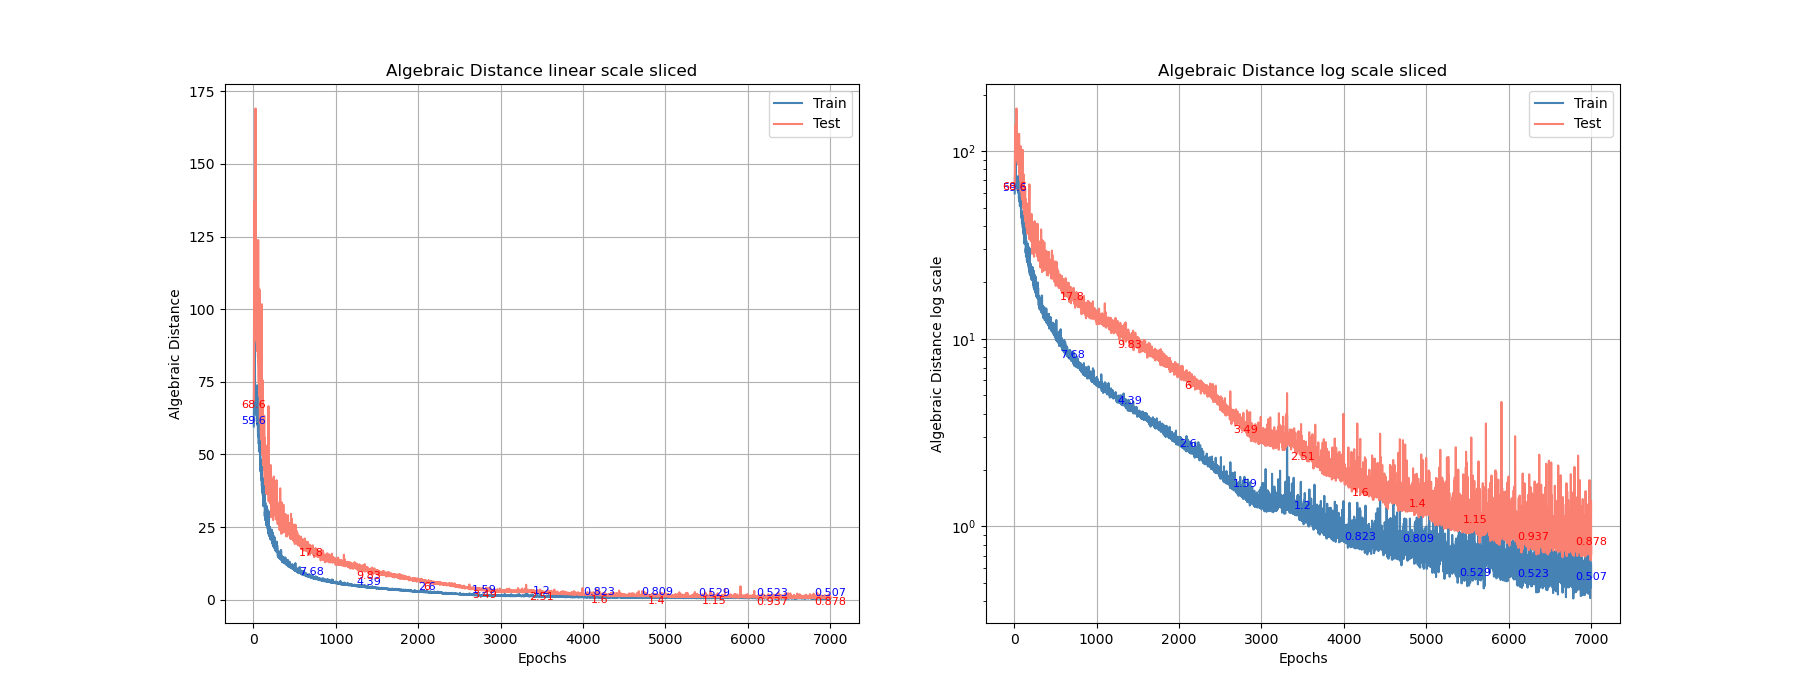
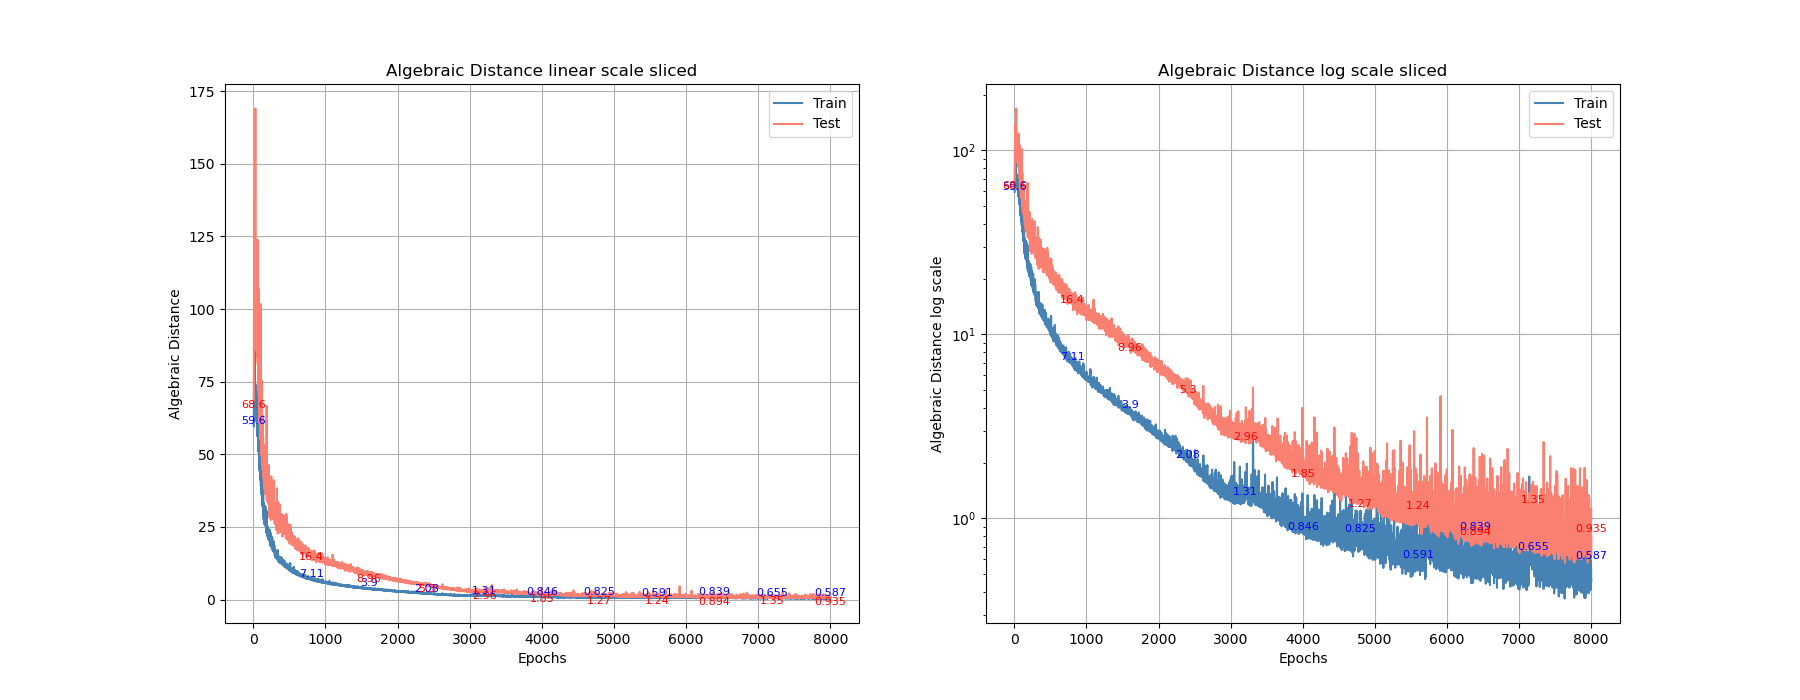
>

diff --git a/params.py b/params.py
@@ -74,6 +74,8 @@ norm_mean = torch.tensor([0.48145466, 0.4578275, 0.40821073]).to(device) if MODE
 norm_std = torch.tensor([0.26862954, 0.26130258, 0.27577711]).to(device) if MODEL == CLIP_MODEL_NAME else torch.tensor([0.5, 0.5, 0.5]).to(device)
 
 
-# "plots/Stereo/Winners/SED_0.5__L2_1__huber_1__lr_0.0001__conv__CLIP__use_reconstruction_True/BS_8__ratio_0.0375__head__frozen_0"
 # "plots/Stereo/Winners/SED_0.5__L2_1__huber_1__auged__lr_0.0001__conv__CLIP__use_reconstruction_True__BS_8__ratio_0.0375__mid__frozen_0"
 # "plots/Stereo/Winners/SED_0.5__L2_1__huber_1__auged__2lr_0.0001__conv__CLIP__use_reconstruction_True__BS_8__ratio_0.0375__tail__frozen_0"
+# "plots/Stereo/Winners/SED_0.5__L2_1__huber_1__lr_0.0001__conv__CLIP__use_reconstruction_True/BS_8__ratio_0.025__mid__frozen_0"
+# "plots/Stereo/Winners/SED_0.5__L2_1__huber_1__lr_0.0001__conv__CLIP__use_reconstruction_True/BS_8__ratio_0.025__tail__frozen_0"
+# "plots/Stereo/Winners/SED_0.5__L2_1__huber_1__auged__lr_0.0001__conv__CLIP__use_reconstruction_True__BS_4__ratio_0.025__head_True"

diff --git a/Main.py b/Main.py
@@ -46,7 +46,7 @@ if __name__ == "__main__":
                 set_seed(SEED)
 
                 lr_decay = 0.85 if lr < 1e-4 else 0.8
-                num_epochs = 2000 if data_ratio==0.3 else 3000 if data_ratio==0.2 else 4000 if data_ratio==0.1 else 5500 if data_ratio==0.05 else 8000 if data_ratio==0.0375 else 8500 if data_ratio==0.025 else 0
+                num_epochs = 2000 if data_ratio==0.3 else 3000 if data_ratio==0.2 else 4000 if data_ratio==0.1 else 5500 if data_ratio==0.05 else 8000 if data_ratio==0.0375 else 10000 if data_ratio==0.025 else 0
                 if num_epochs == 0:
                         print("Invalid data ratio")
                         continue

diff --git a/PlotFromText.py b/PlotFromText.py
@@ -110,7 +110,7 @@ def plot_parameter(x, y1, y2, title, plots_path=None, x_label="Epochs", save=Fal
 
 
 if __name__ == "__main__":
-    plots_path = "plots/Stereo/Winners/SED_0.5__L2_1__huber_1__lr_0.0001__conv__CLIP__use_reconstruction_True/BS_8__ratio_0.1__mid__frozen_4"
+    plots_path = "plots/Stereo/Winners/SED_0.5__L2_1__huber_1__lr_0.0001__conv__CLIP__use_reconstruction_True/BS_8__ratio_0.0375__head__frozen_0"
     file_path = os.path.join(plots_path, "output.log")
     save = True
 

diff --git a/utils.py b/utils.py
@@ -143,8 +143,8 @@ def check_nan(all_train_loss_last, all_val_loss_last, train_mae_last, val_mae_la
         return True
     return False
 
-def not_learning(val_sed, plots_path):
-    if sum(val_sed[-150:]) > sum(val_sed[200:350]) - (100*0.8):
+def not_learning(val_sed, val_RE1, plots_path):
+    if sum(val_sed[-150:]) > sum(val_sed[200:350]) - (150*0.8) or sum(val_RE1[-100:])/100 > 200: 
         print_and_write("not learning\n", plots_path)
         return True
     return False
